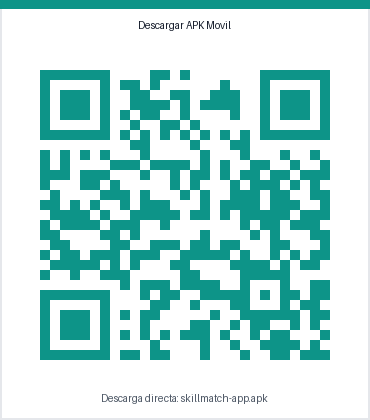
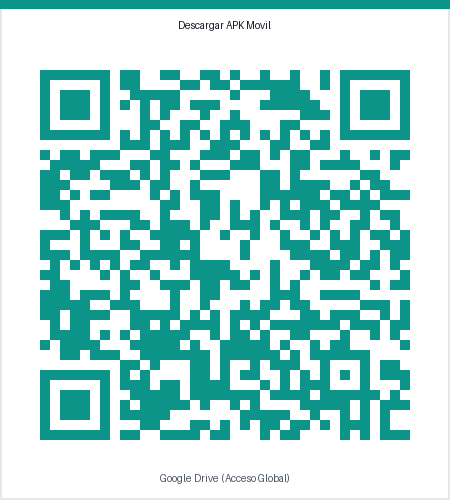
docs: update mobile APK QR with Google Drive link

diff --git a/frontend/public/qr.html b/frontend/public/qr.html
@@ -191,13 +191,16 @@
 
     <!-- QR 4: Mobile APK -->
     <div class="card">
-      <h2>4. APK Móvil Android</h2>
-      <p class="desc">Descarga e instalación directa en teléfonos Android (sin cables ni ADB).</p>
+      <h2>4. APK Móvil Android (Google Drive)</h2>
+      <p class="desc">Descarga global desde cualquier teléfono (WiFi o datos móviles 4G/5G).</p>
       <div class="qr-frame">
-        <img src="/qrs/qr_mobile_apk.png" alt="QR Mobile APK">
+        <img src="/qrs/qr_mobile_apk.png" alt="QR Mobile APK Google Drive">
       </div>
-      <a href="/skillmatch-app.apk" download class="link-btn btn-apk">
-        Descargar APK (27 MB) ⬇
+      <a href="https://drive.google.com/drive/folders/1nWR_UpgN1Q0V8HIgBuaU_DSPYZOTf8If?usp=sharing" target="_blank" class="link-btn btn-apk">
+        Abrir en Google Drive (APK) ↗
+      </a>
+      <a href="/skillmatch-app.apk" download style="margin-top: 0.5rem; font-size: 0.75rem; color: var(--muted); text-decoration: underline;">
+        o descarga directa en red local (27 MB)
       </a>
     </div>
   </div>
